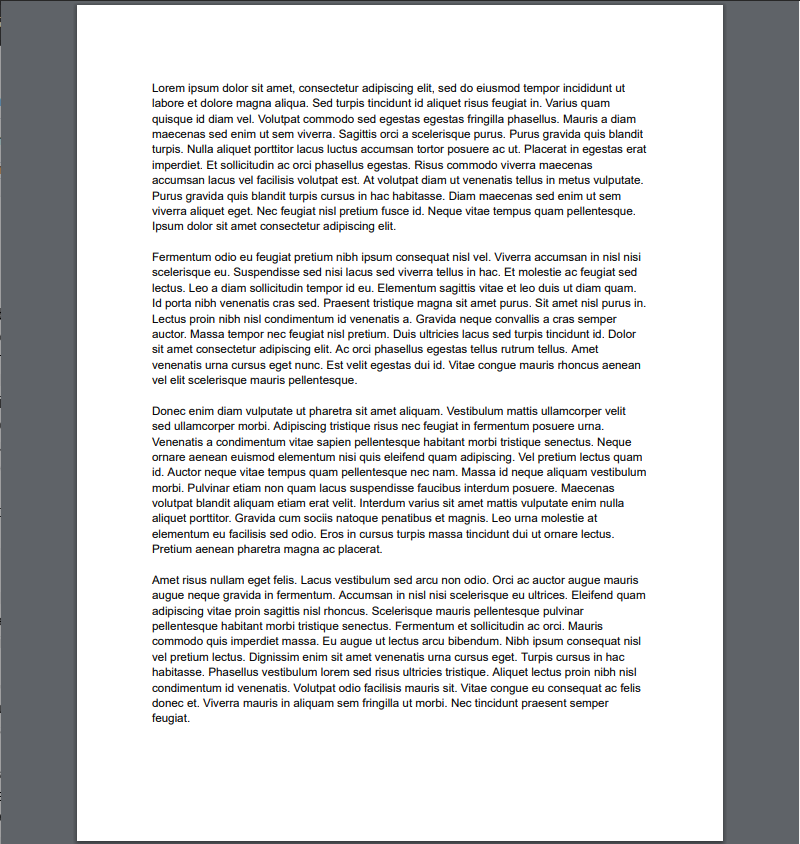
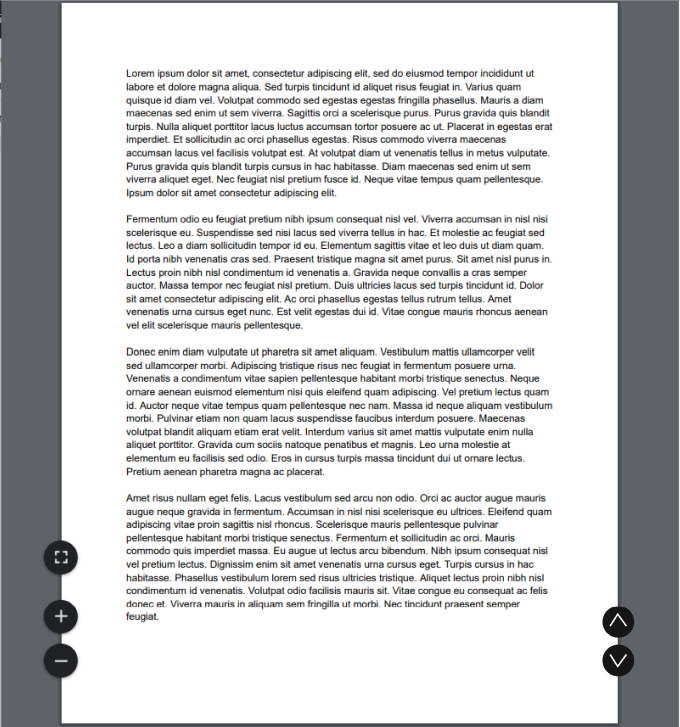
added new images

Changed region(s): [[0.1853, 0.0908, 0.8338, 0.8776], [0.0618, 0.0, 0.9574, 0.9986], [0.9882, 0.0, 1.0, 1.0]]

diff --git a/out/production/CS2450_Assignment3/styles.css b/out/production/CS2450_Assignment3/styles.css
@@ -22,7 +22,3 @@
 .bold-text {
   -fx-font-weight: bold;
 }
-.navigation-buttons {
-  -fx-background-color: #2b2a2bdb;
-  -fx-text-fill: #ffffff;
-}
